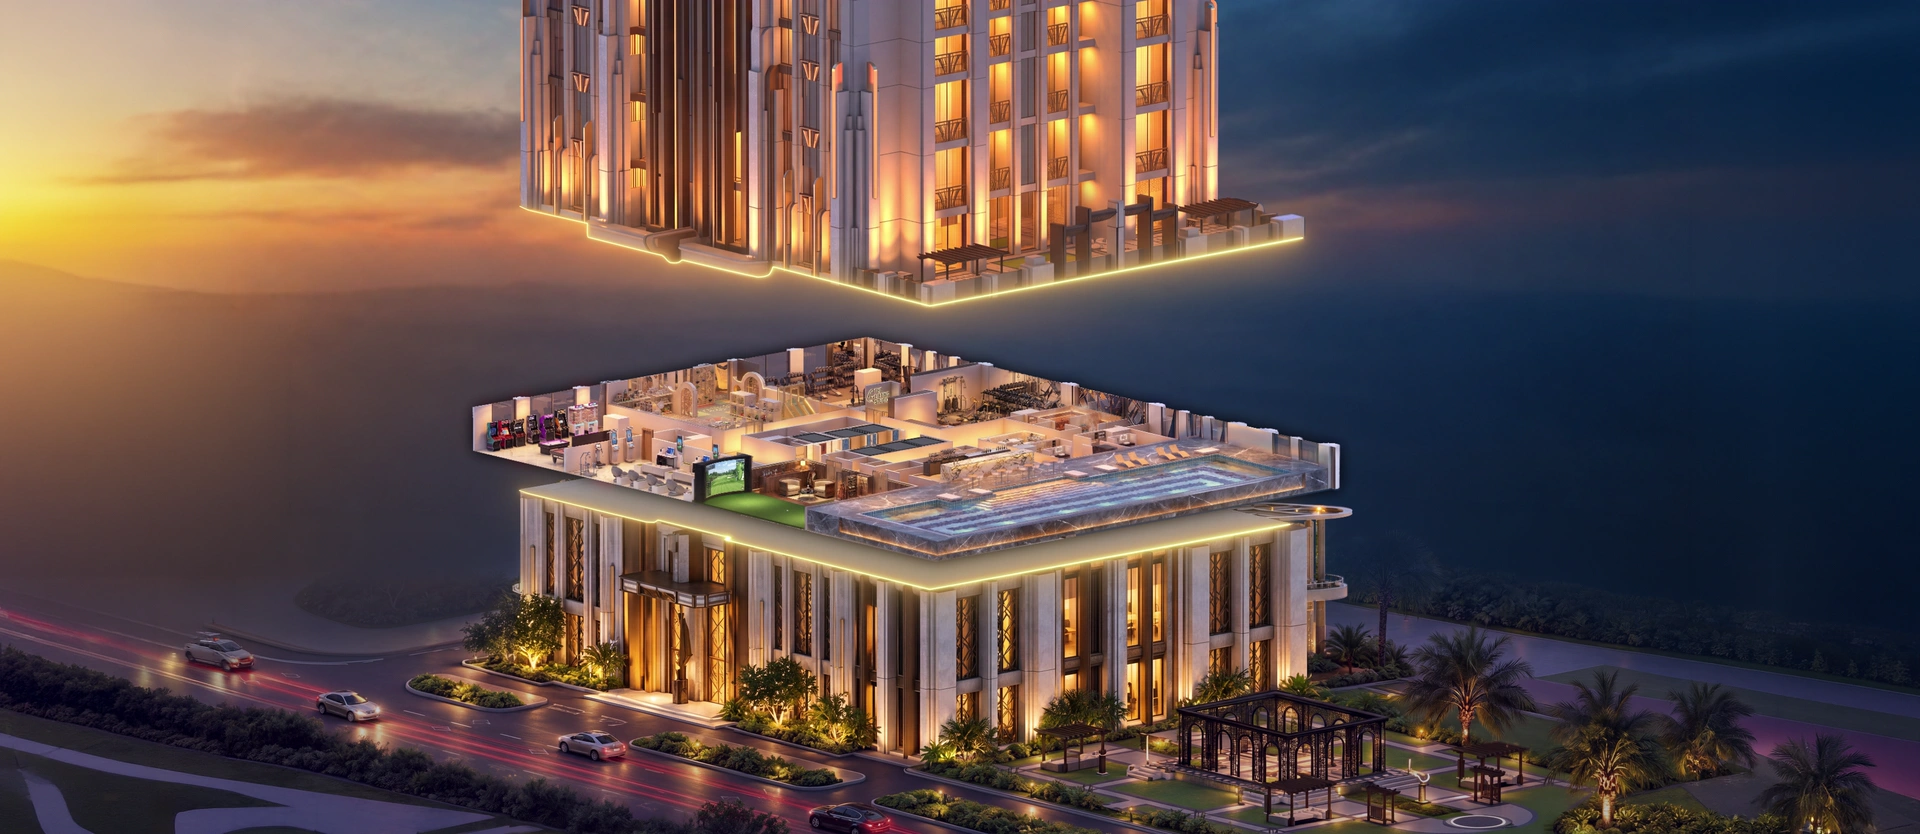
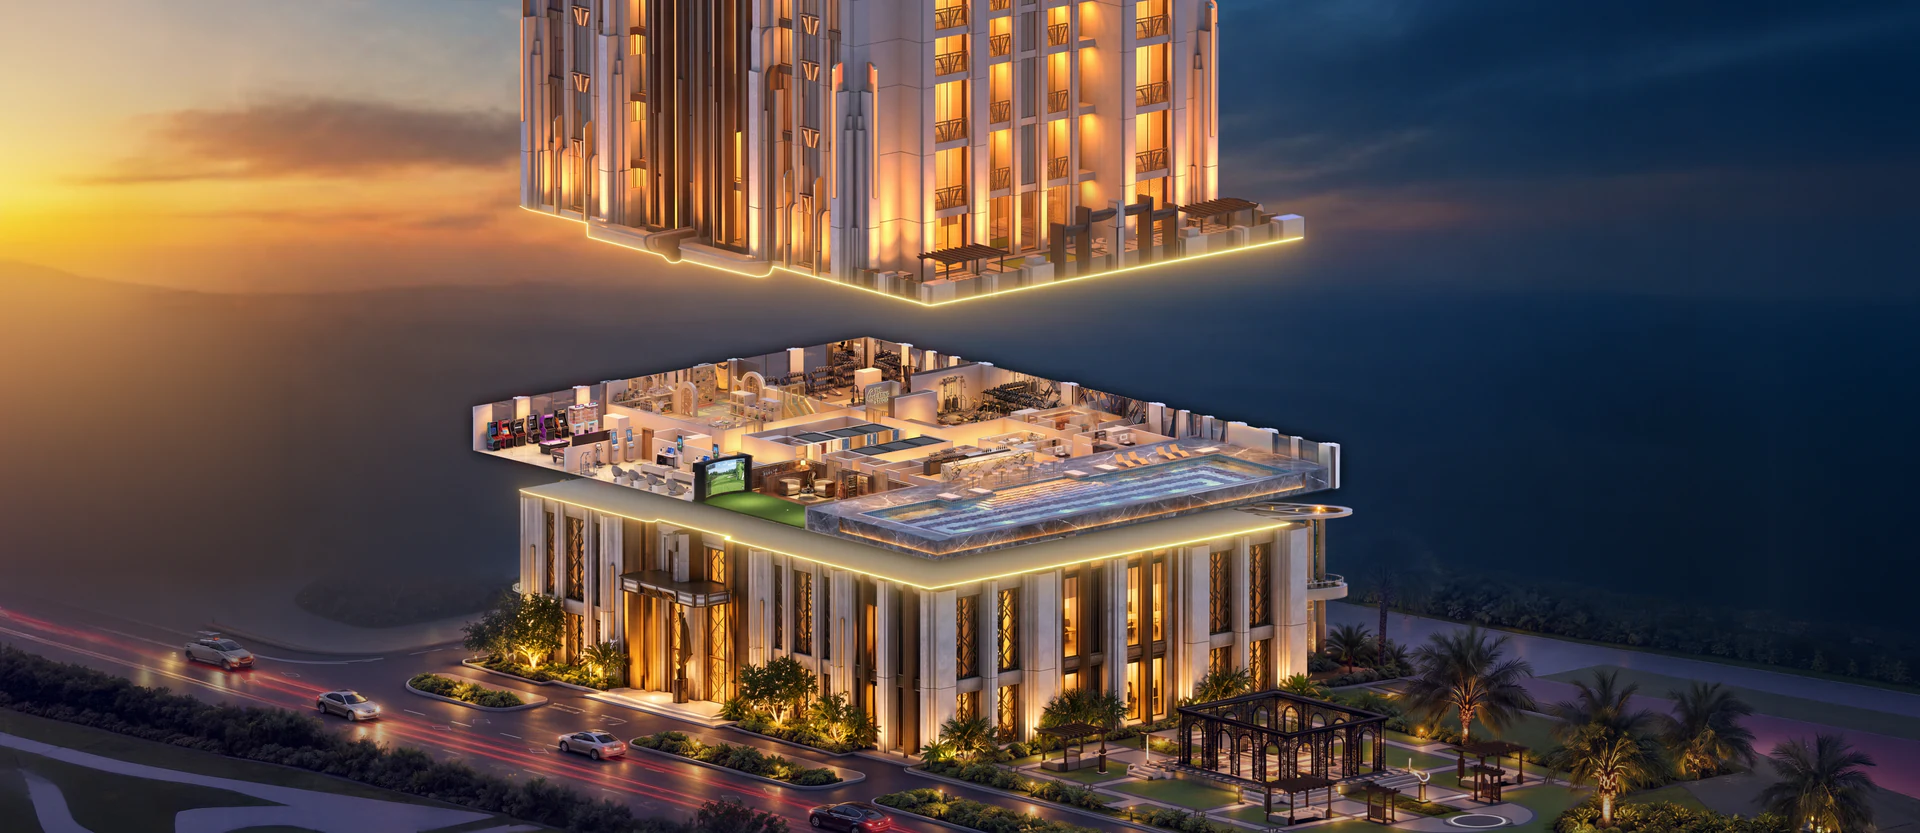
Use sharp still PhanTangTI_Anh_V1 as Mat bang final frame with crossfade

diff --git a/public/matbang.html b/public/matbang.html
@@ -471,8 +471,14 @@ function loadEndHQ() {
   if (endHQ || preview) return; endHQ = true;
   // mạng chậm / tiết kiệm dữ liệu: vẫn tải, cỡ khung đã hạ 1 bậc nên end.webp (cao hơn 1 bậc) vừa đúng độ nét màn hình; đợi lúc rảnh mới tải
   const go = () => { const img = new Image(); img.decoding = 'async'; img.fetchPriority = 'low';
-  img.src = `/split/${W}/end.webp?v=6`;
-  img.decode().then(() => { warmImg(img); frames[N - 1] = img; if (cur === N - 1 && tIdx < 0) draw(cur); }, () => {}); };
+  img.src = `/split/${W}/end.webp?v=7`;
+  img.decode().then(() => { warmImg(img); const prev = frames[N - 1]; frames[N - 1] = img;
+    if (cur !== N - 1 || tIdx >= 0 || !prev) return draw(cur);
+    // mờ dần từ khung video sang ảnh nét trong 0,5 s → không bị "giật" khi đổi chất lượng
+    const g = geom(), t0 = performance.now(), step = (t) => { const a = Math.min(1, (t - t0) / 500);
+      if (cur !== N - 1 || tIdx >= 0) return; paint(prev, g.dx, g.dy, g.dw, g.dh, IMG_AR);
+      ctx.globalAlpha = a; ctx.drawImage(img, g.dx * dpr, g.dy * dpr, g.dw * dpr, g.dh * dpr); ctx.globalAlpha = 1; if (a < 1) requestAnimationFrame(step); };
+    requestAnimationFrame(step); }, () => {}); };
   window.SPLIT_SLOW ? (window.requestIdleCallback || ((f) => setTimeout(f, 1500)))(go, { timeout: 4000 }) : go();
 }
 // ---------- vòng lặp sau khi tách tầng xong (video PhanTangTI_2nd): l_00 trùng khung cuối f_49, l_49 ≈ l_00 →
